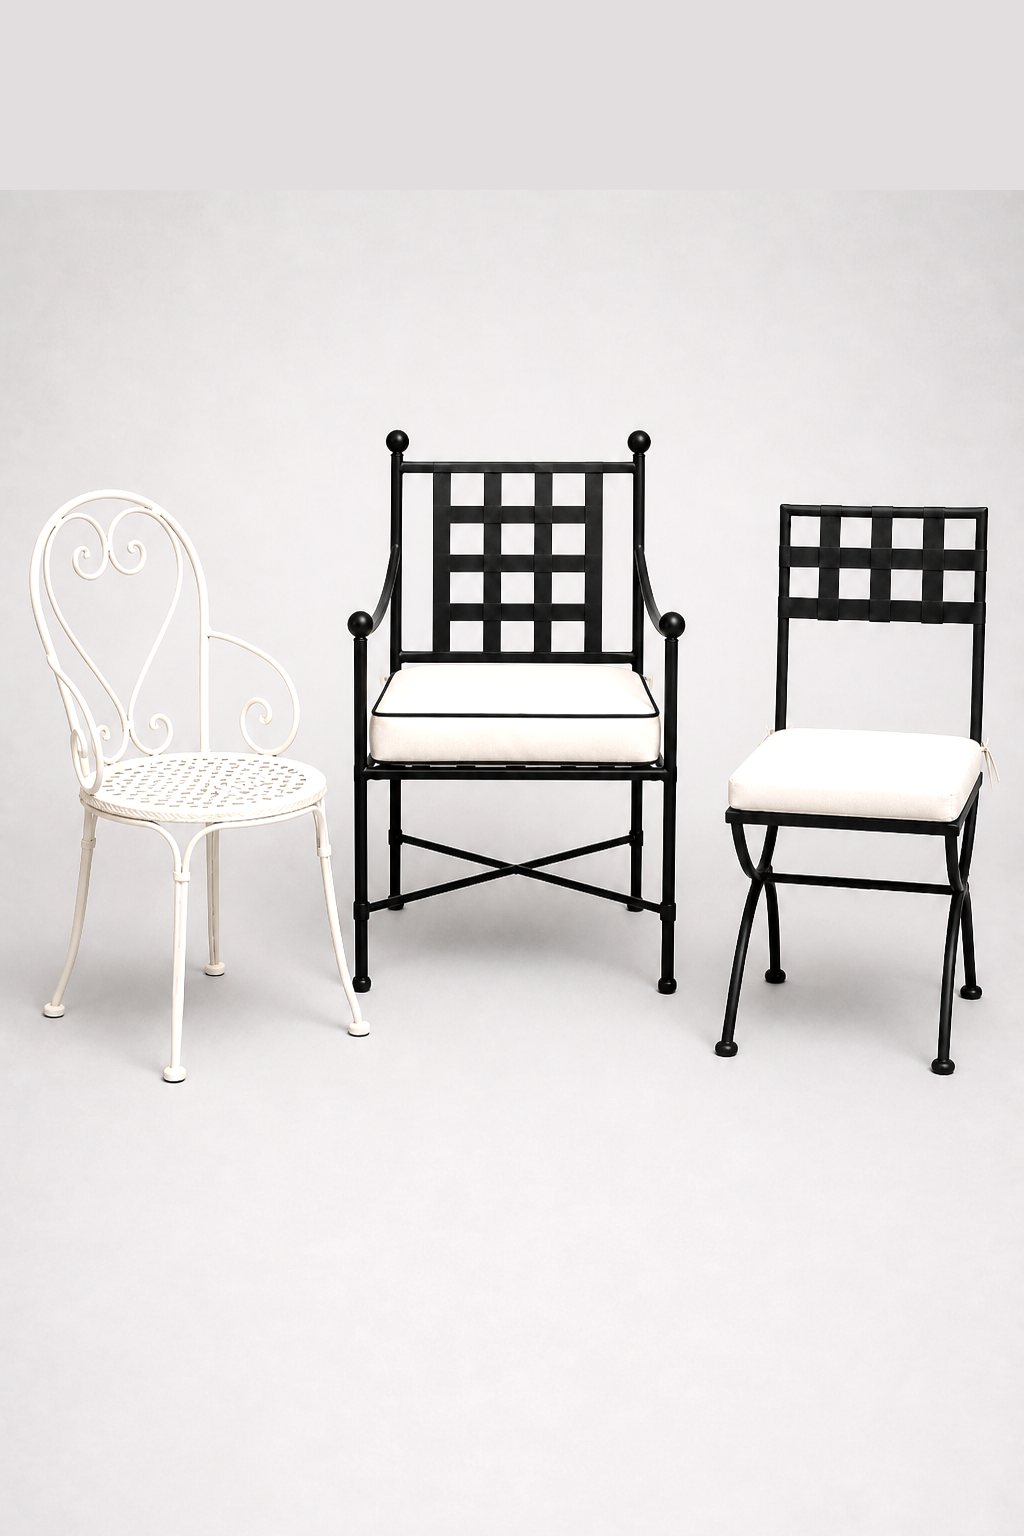
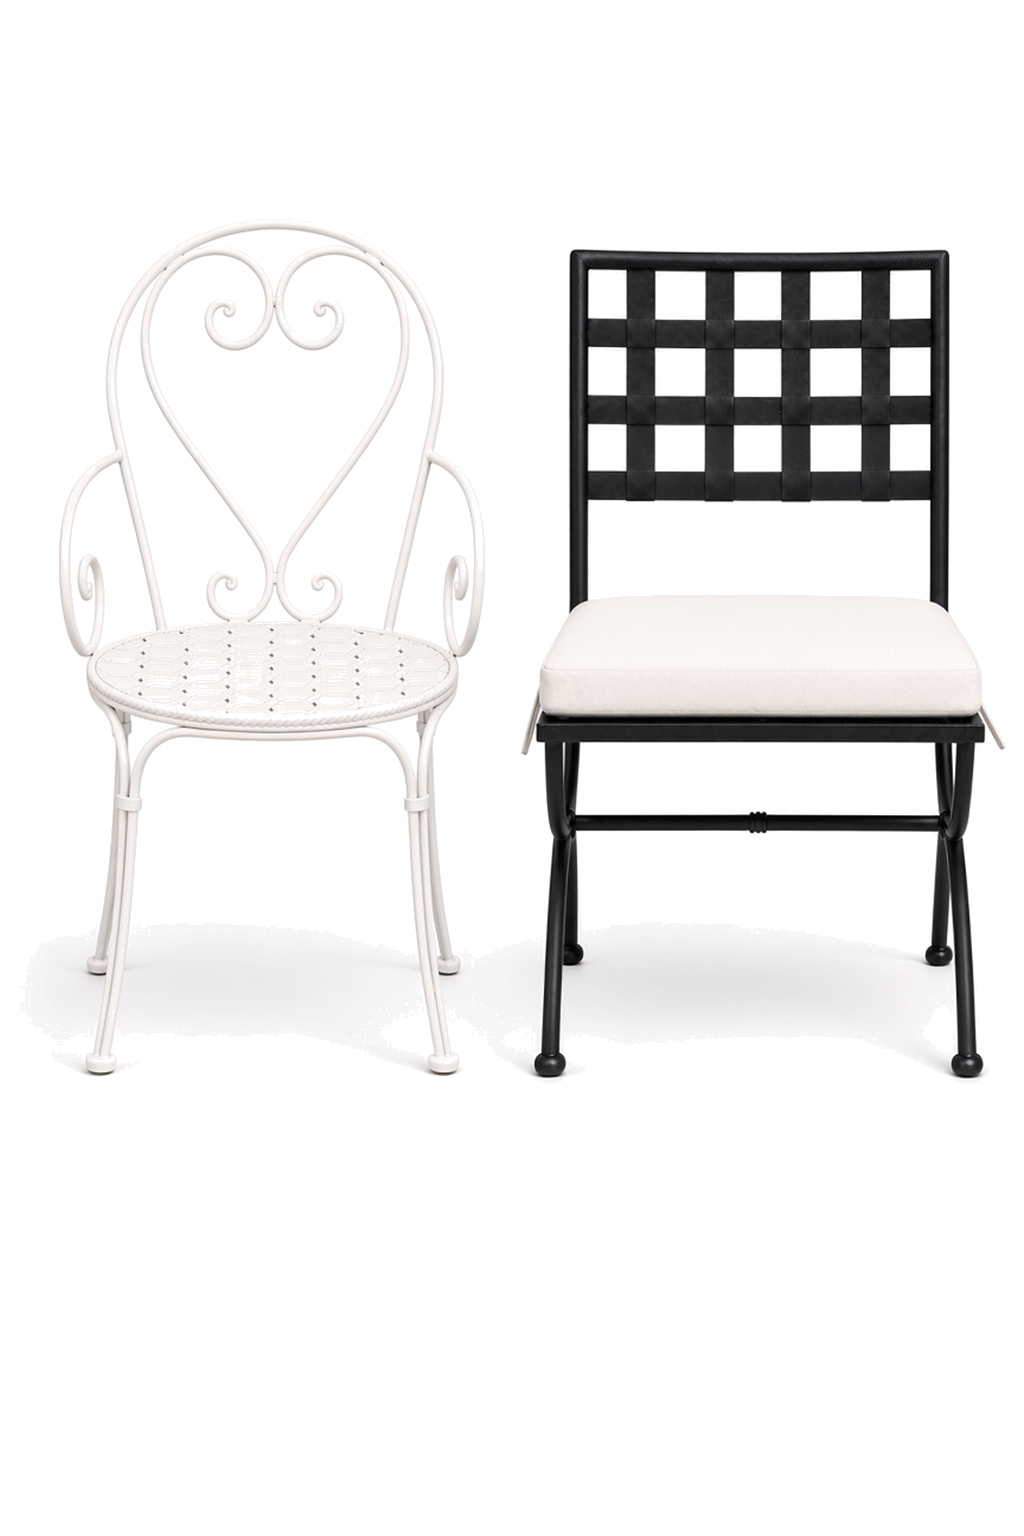
Give seating and tables collection cards one uniform white backdrop.
EOF

diff --git a/css/style.css b/css/style.css
@@ -297,13 +297,13 @@ a { color: var(--accent-text); text-decoration: none; }
   color: var(--accent-text);
 }
 .cc--seating {
-  background-image: url("../assets/img/collection-seating.png");
+  background-image: url("../assets/img/collection-seating.png?v=74");
 }
 .cc--umbrella {
   background-image: url("../assets/img/collection-umbrella.png");
 }
 .cc--carts {
-  background-image: url("../assets/img/collection-tables.png");
+  background-image: url("../assets/img/collection-tables.png?v=74");
 }
 .cc--eastern {
   background-image: url("../assets/img/collection-tableware.png");

diff --git a/index.html b/index.html
@@ -12,7 +12,7 @@
   <link rel="preconnect" href="https://fonts.googleapis.com" />
   <link rel="preconnect" href="https://fonts.gstatic.com" crossorigin />
   <link href="https://fonts.googleapis.com/css2?family=Cormorant+Garamond:ital,wght@0,400;0,500;0,600;1,400&family=Jost:wght@300;400;500&display=swap" rel="stylesheet" />
-  <link rel="stylesheet" href="css/style.css?v=73" />
+  <link rel="stylesheet" href="css/style.css?v=74" />
   <script type="application/ld+json">
   {
     "@context": "https://schema.org",
